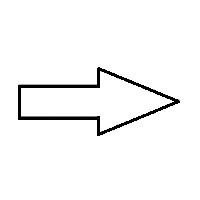
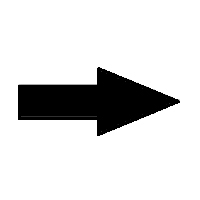
Трай

Changed region(s): [[0.09, 0.36, 0.87, 0.66]]

diff --git a/site/css/style.css b/site/css/style.css
@@ -102,8 +102,9 @@ html, body{
 		background-color: white;
 	}
 	.btn{
-		background-image: url(../img/background.jpg);
-		background-size: contain;
+		background-color: white;
+		background-image: url(../img/arrow.jpg);
+		background-size: cover;
 		background-repeat: no-repeat;
 		background-position:center;
 		border: none;
